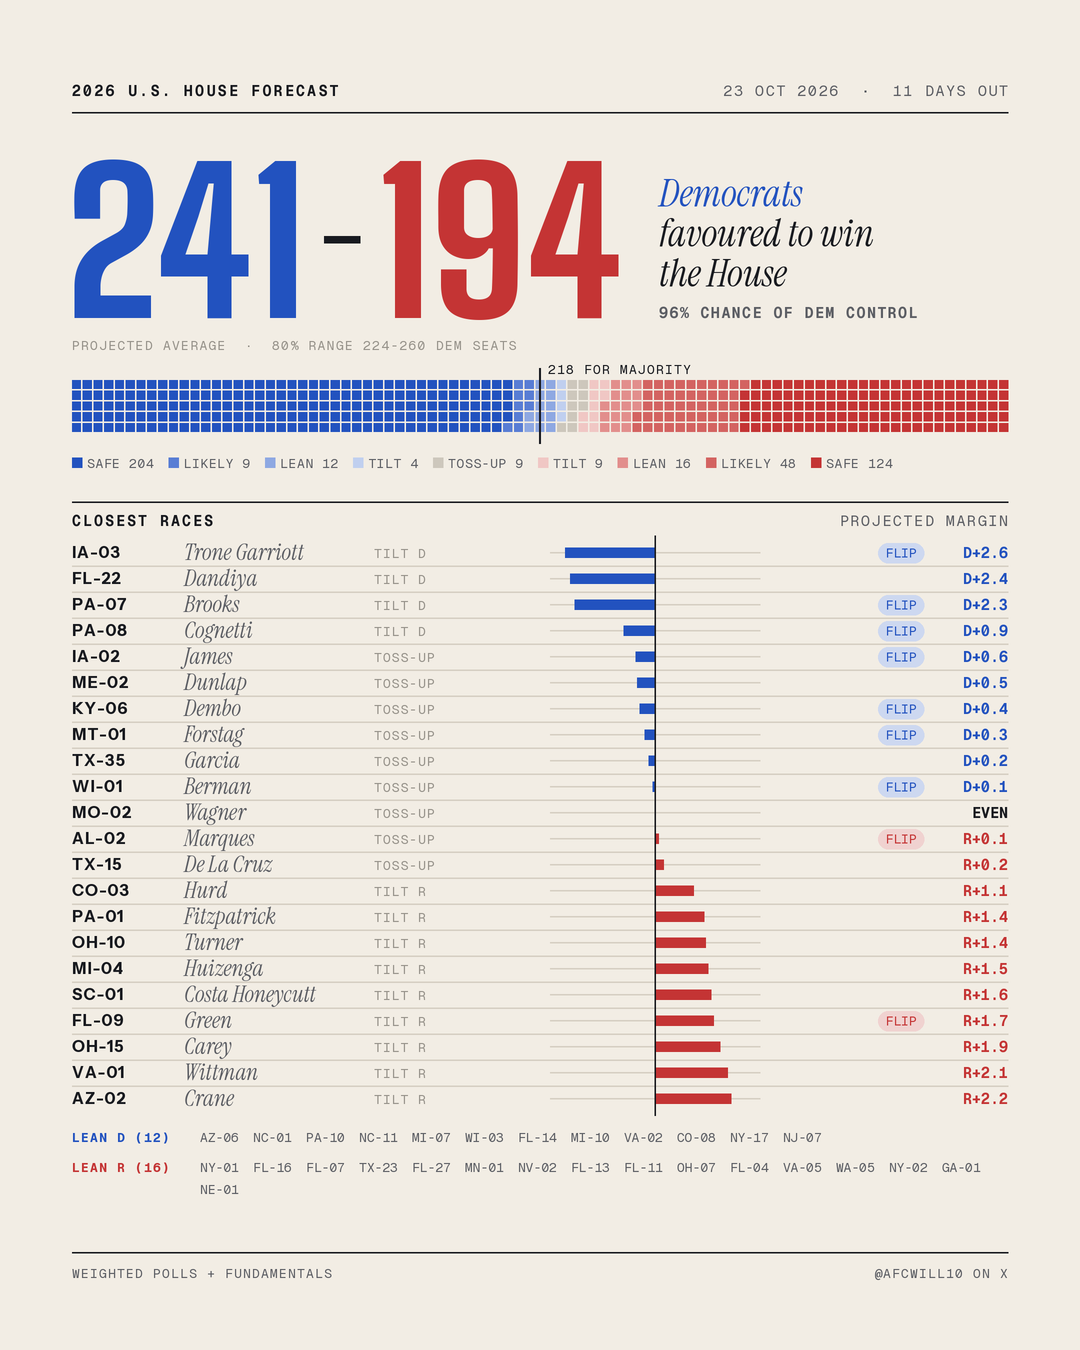
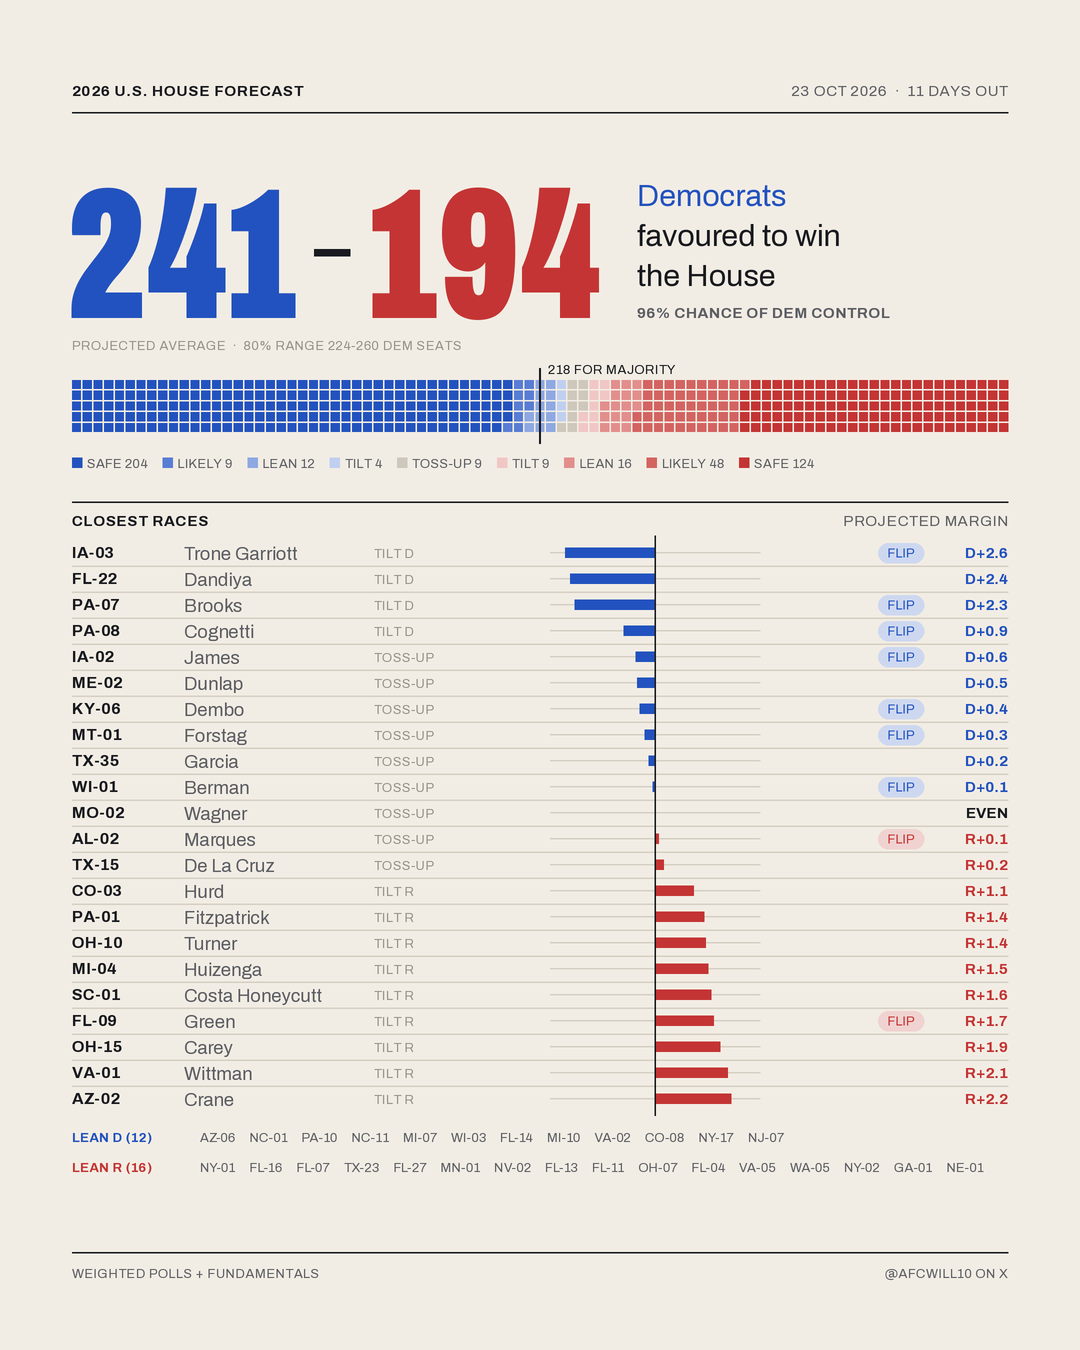
Graphics: Archivo ('swiss') is the default type style
Regenerated the Senate, House and House square-map graphics for 23 Oct.

Claude-Session: https://claude.ai/code/session_019JSxA7aqHuyNv185JZNLWE

diff --git a/graphics/make_instagram.py b/graphics/make_instagram.py
@@ -60,10 +60,10 @@ def load_senate():
     return races, dem_seats, 100 - dem_seats, round(100 * float(timeline["dem_control_prob"])), label
 
 
-# Type style. "ledger" is the original set; the others swap every font through
+# Type style. "swiss" (Archivo) is the default; "ledger" is the original set. The others swap every font through
 # STYLES (file, variable-font axes, size factor) so all the graphics change together.
 # Choose with the GRAPHICS_STYLE environment variable.
-STYLE = os.environ.get("GRAPHICS_STYLE", "ledger")
+STYLE = os.environ.get("GRAPHICS_STYLE", "swiss")
 FRANKLIN, SERIF, ARCHIVO = "LibreFranklin-Variable.ttf", "SourceSerif4-Variable.ttf", "Archivo-Variable.ttf"
 STYLES = {
     "newspaper": {   # Franklin Gothic labels, Source Serif names - US newspaper data desk
